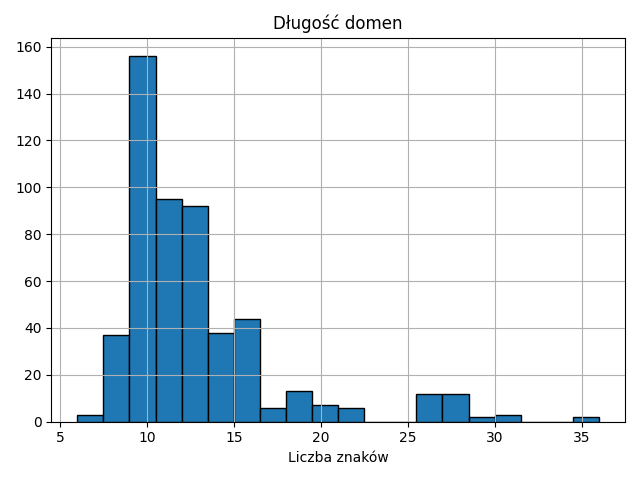
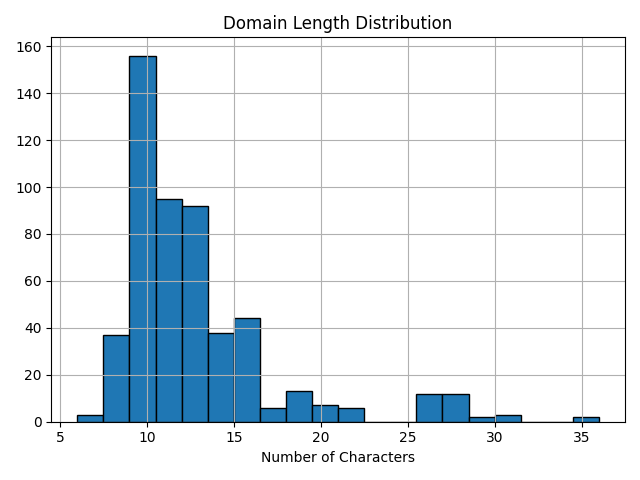
stats generated in ENG

diff --git a/analysis/stats.py b/analysis/stats.py
@@ -8,43 +8,46 @@ DATA_PATH = os.path.join(PROJECT_ROOT, "output", "suspected_phishing.csv")
 PLOTS_PATH = os.path.join(PROJECT_ROOT, "output", "plots")
 os.makedirs(PLOTS_PATH, exist_ok=True)
 
-# Wczytanie danych
+# Load data
 df = pd.read_csv(DATA_PATH)
 
-# Konwersja typów
+# Convert data types
 df["score"] = pd.to_numeric(df["score"], errors="coerce")
 df["entropy"] = pd.to_numeric(df["entropy"], errors="coerce")
 df["registration_days"] = pd.to_numeric(df["registration_days"], errors="coerce")
 
-print(f"Liczba wszystkich rekordów: {len(df)}")
-print(f"Liczba unikalnych domen: {df['domain'].nunique()}\n")
+# Summary stats
+print(f"Total records: {len(df)}")
+print(f"Unique domains: {df['domain'].nunique()}\n")
 
-print("Top 10 TLD:")
+print("Top 10 TLDs:")
 print(df["tld"].value_counts().head(10), "\n")
 
-print("Top 10 Issuerów:")
+print("Top 10 Issuers:")
 print(df["issuer"].value_counts().head(10), "\n")
 
-print("Statystyka entropii:")
+print("Entropy statistics:")
 print(df["entropy"].describe(), "\n")
 
-print("Domeny z podejrzanymi słowami:")
+print("Domains containing suspicious keywords:")
 print(df["has_keyword"].value_counts(), "\n")
 
-print("Domeny z podejrzanym TLD:")
+print("Domains with suspicious TLD:")
 print(df["tld_suspicious"].value_counts(), "\n")
 
-print("Najczęściej dopasowane znane marki:")
+print("Most frequent matched brands:")
 print(df["brand_match"].value_counts().head(10), "\n")
 
+# Group combinations
 grouped = df.groupby(["issuer", "tld_suspicious", "has_keyword"]).size().reset_index(name="count")
-print("Kombinacje issuer + TLD podejrzany + słowo kluczowe:")
+print("Issuer + Suspicious TLD + Suspicious keyword combinations:")
 print(grouped.sort_values("count", ascending=False), "\n")
 
-print("Statystyka phishing score:")
+# Score stats
+print("Phishing score statistics:")
 print(df["score"].describe(), "\n")
 
-# Kategoryzacja poziomu ryzyka
+# Risk labeling
 def label_risk(score):
     if pd.isna(score):
         return "unknown"
@@ -56,71 +59,71 @@ def label_risk(score):
         return "low"
 
 df["risk_level"] = df["score"].apply(label_risk)
-print("Rozkład poziomu ryzyka:")
+print("Risk level distribution:")
 print(df["risk_level"].value_counts(), "\n")
 
-# 1. Histogram phishing score
+# 1. Phishing score distribution
 plt.hist(df["score"].dropna(), bins=range(0, 12), edgecolor='black')
-plt.title("Rozkład phishing score")
+plt.title("Phishing Score Distribution")
 plt.xlabel("Score")
-plt.ylabel("Liczba domen")
+plt.ylabel("Number of Domains")
 plt.tight_layout()
 plt.savefig(os.path.join(PLOTS_PATH, "score_distribution.png"))
 plt.close()
 
-# 2. Phishing score vs Entropy
+# 2. Score vs Entropy
 sns.scatterplot(data=df, x="entropy", y="score")
-plt.title("Phishing score vs Entropy")
+plt.title("Phishing Score vs Entropy")
 plt.tight_layout()
 plt.savefig(os.path.join(PLOTS_PATH, "score_vs_entropy.png"))
 plt.close()
 
-# 3. Score vs Registration age
+# 3. Score vs Domain Age
 sns.scatterplot(data=df, x="registration_days", y="score")
-plt.title("Phishing score vs Wiek domeny (dni)")
+plt.title("Phishing Score vs Domain Age (days)")
 plt.tight_layout()
 plt.savefig(os.path.join(PLOTS_PATH, "score_vs_age.png"))
 plt.close()
 
-# 4. Histogram długości domen
+# 4. Domain length histogram
 df["domain_length"] = df["domain"].astype(str).apply(len)
 df["domain_length"].hist(bins=20, edgecolor='black')
-plt.title("Długość domen")
-plt.xlabel("Liczba znaków")
+plt.title("Domain Length Distribution")
+plt.xlabel("Number of Characters")
 plt.tight_layout()
 plt.savefig(os.path.join(PLOTS_PATH, "domain_length.png"))
 plt.close()
 
-# 5. Heatmapa TLD vs Issuer
+# 5. Heatmap of TLD vs Issuer
 pivot = df.pivot_table(index="tld", columns="issuer", aggfunc="size", fill_value=0)
 plt.figure(figsize=(12, 6))
 sns.heatmap(pivot, annot=True, fmt="d", cmap="YlGnBu")
-plt.title("Częstość: TLD vs Issuer")
+plt.title("Frequency: TLD vs Issuer")
 plt.tight_layout()
 plt.savefig(os.path.join(PLOTS_PATH, "tld_vs_issuer.png"))
 plt.close()
 
-# 6. Boxplot score vs brand_match (top 5)
+# 6. Boxplot: Score by top brand matches
 top_brands = df["brand_match"].value_counts().head(5).index
 sns.boxplot(data=df[df["brand_match"].isin(top_brands)], x="brand_match", y="score")
-plt.title("Phishing score dla najczęstszych brand_match")
+plt.title("Phishing Score for Top Brand Matches")
 plt.tight_layout()
 plt.savefig(os.path.join(PLOTS_PATH, "score_vs_brand_match.png"))
 plt.close()
 
-# 7. Score vs słowo kluczowe
+# 7. Score by suspicious keyword presence
 sns.boxplot(data=df, x="has_keyword", y="score")
-plt.title("Phishing score vs obecność słowa kluczowego")
-plt.xticks([0, 1], ["Brak", "Obecne"])
+plt.title("Phishing Score vs Suspicious Keyword Presence")
+plt.xticks([0, 1], ["Absent", "Present"])
 plt.tight_layout()
 plt.savefig(os.path.join(PLOTS_PATH, "score_vs_keyword.png"))
 plt.close()
 
-# 8. Wykres słupkowy Top 10 TLD
+# 8. Top 10 TLDs bar chart
 df["tld"].value_counts().head(10).plot(kind="bar")
-plt.title("Top 10 końcówek domen (TLD)")
+plt.title("Top 10 Domain Endings (TLDs)")
 plt.xlabel("TLD")
-plt.ylabel("Liczba")
+plt.ylabel("Count")
 plt.tight_layout()
 plt.savefig(os.path.join(PLOTS_PATH, "top_tld.png"))
 plt.close()
